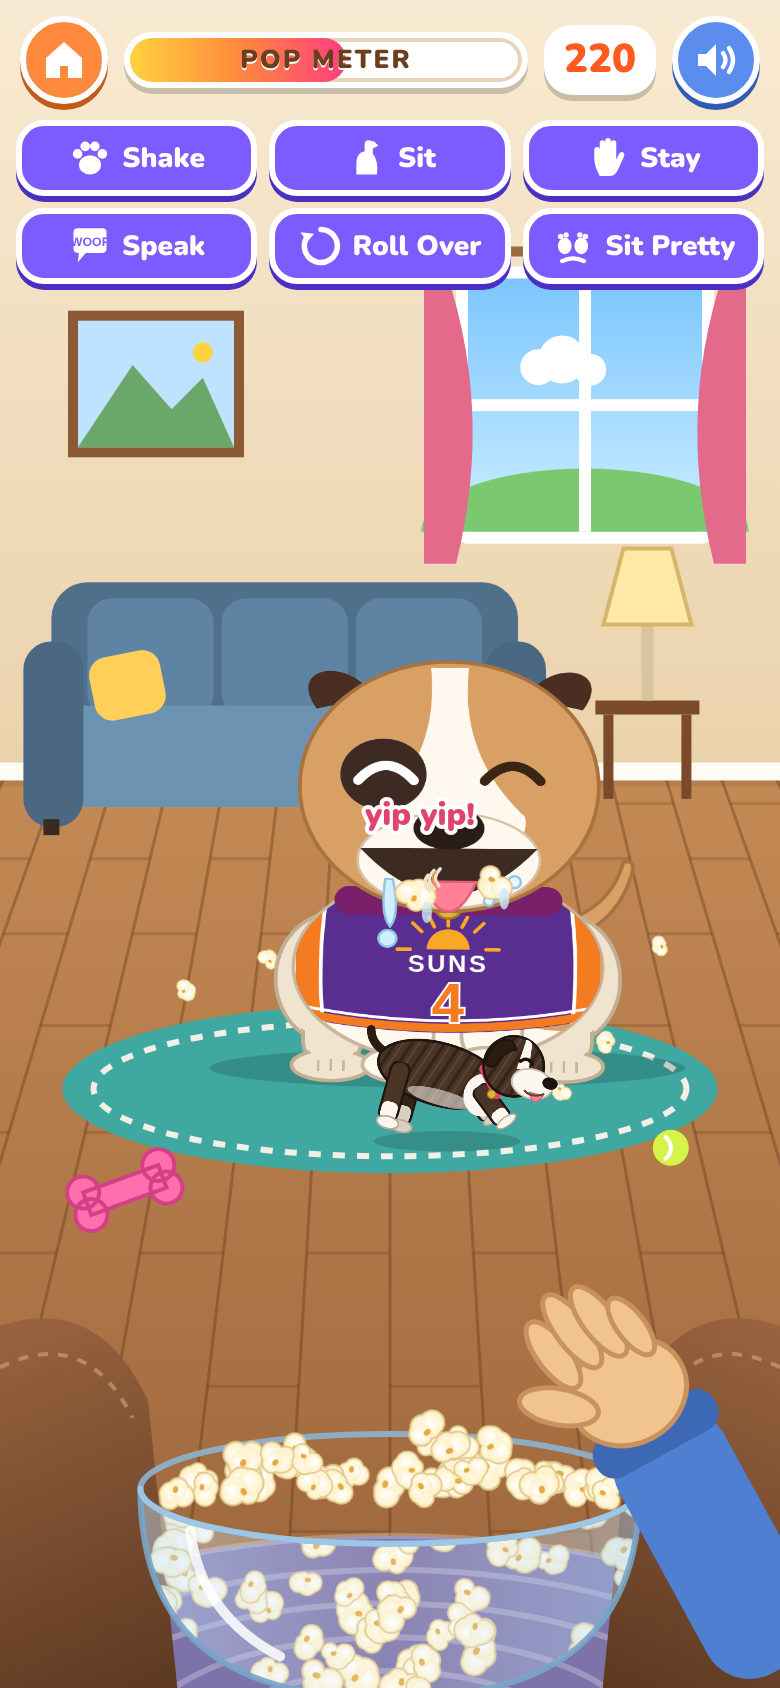
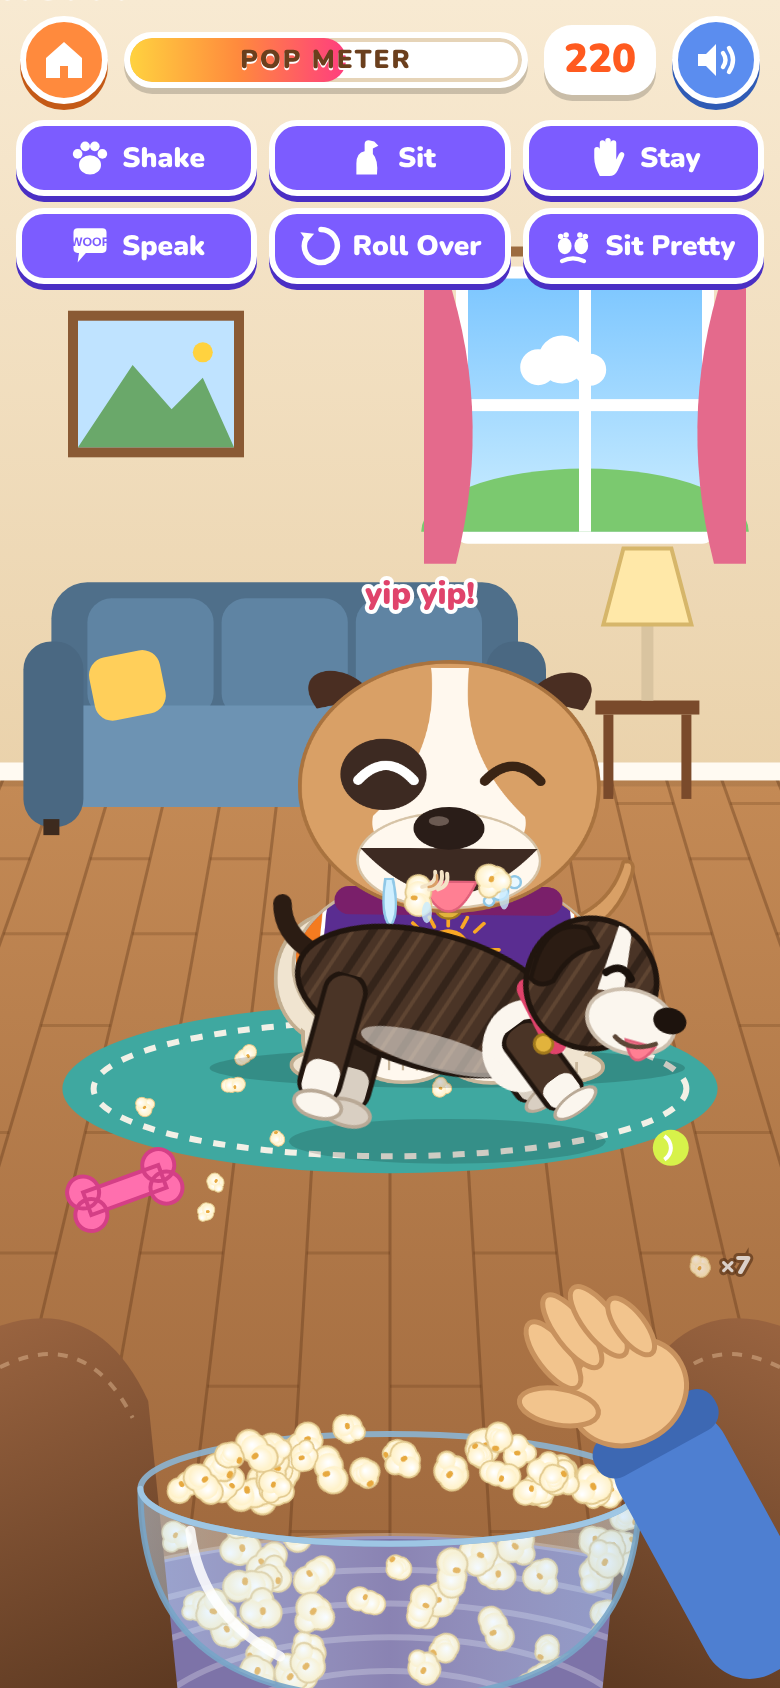
Gorda's cleanup crew: she gobbles missed popcorn when 10 pile up (both games); full-size Gorda on the floor; Marley is she/her

diff --git a/games/pop-the-dog/game.js b/games/pop-the-dog/game.js
@@ -45,7 +45,12 @@
   // ---------------- layout + static art ----------------
   function resize() {
     const r = $('app').getBoundingClientRect();
+    const oW = W, oH = H;
     W = Math.round(r.width); H = Math.round(r.height);
+    if (oW && oH && (oW !== W || oH !== H)) {      // keep floor popcorn + Gorda in place after a resize/rotate
+      S.floor.forEach(c => { c.x *= W / oW; c.y *= H / oH; });
+      Z.x *= W / oW; Z.y *= H / oH;
+    }
     DPR = Math.min(2, window.devicePixelRatio || 1);
     canvas.width = Math.round(W * DPR); canvas.height = Math.round(H * DPR);
     L.wallY = H * 0.46;
@@ -58,7 +63,7 @@
     L.gorda = { x: W * 0.215, y: L.wallY - H * 0.035 + 4, k: Math.min(W * 0.27, 150) / 270 };
     if (!S.x) S.x = W / 2;
     bg = renderBackground(); fg = renderForeground();
-    if (Z.on) updateZoomies(0);   // keep Gorda on the new floor loop after a resize/rotate
+    if (Z.on && Z.kind === 'zoom') updateZoomies(0);   // keep Gorda on the new floor loop after a resize/rotate
   }
 
   function offscreen(w, h) {
@@ -521,30 +526,42 @@
   // ---------------- Gorda's ZOOMIES (Marley game only) ----------------
   // ~8 s: wake -> stretch -> hop down -> laps around Marley (behind on the far side, in front on
   // the near side) with a play bow -> run back -> jump up -> turn around -> lie down.
-  const Z = { on: false, t: 0, next: 35, mode: 'couch', x: 0, y: 0, k: 0.3, face: 1, layer: 'back', phi: 0,
+  const Z = { on: false, kind: 'zoom', t: 0, next: 35, mode: 'couch', x: 0, y: 0, k: 0.3, face: 1, layer: 'back', phi: 0,
     lastStep: 0, fired: {}, watchRot: 0, st: null };
   function startZoomies() {
     if (Z.on || S.dogId !== 'marley' || !G.runImgs || S.popState) return;
-    Object.assign(Z, { on: true, t: 0, fired: {}, mode: 'couch', phi: 0 });
+    Object.assign(Z, { on: true, kind: 'zoom', t: 0, fired: {}, mode: 'couch', phi: 0 });
     G.state = 'zoom'; G.until = 1e9; G.earT = 0.35;
   }
   function stopZoomies() {
-    Z.on = false; Z.next = S.time + rand(30, 45);
+    // after a cleanup, zoomies that were already due just wait a few seconds
+    Z.next = Z.kind === 'clean' ? Math.max(Z.next, S.time + 6) : S.time + rand(30, 45);
+    Z.on = false; Z.target = null;
     if (G.state === 'zoom') { G.state = 'sleep'; G.until = S.time; }
   }
   function zLoop() {
-    const rx = L.dogW * 0.5 * (1 + 0.7 * progress()) * 1.12 + 34, ry = H * 0.034;
+    const rx = Math.min(L.dogW * 0.5 * (1 + 0.7 * progress()) * 1.12 + 34, W * 0.5 - 78), ry = H * 0.034;
     return th => ({ x: S.x + rx * Math.cos(th), y: L.feetY + 4 + ry * Math.sin(th), d: Math.sin(th) });
   }
+  // Gorda on the floor is full size: about 88% of the dog's starting size (Marley and Bella grow as
+  // they fill up), with only mild +/-10% depth scaling on the far / near side.
+  function floorK() { return (L.dogW / 400) * 0.88 * 350 / 156; }
+  function depthScale(d) { return floorK() * (1 + 0.1 * clamp(d, -1, 1)); }
+  function yDepth(y) { return (y - (L.feetY + 4)) / (H * 0.034); }
+  const smooth = u => { u = clamp(u, 0, 1); return u * u * (3 - 2 * u); };
+
   function updateZoomies(dt) {
     if (!Z.on) {
+      // cleanup duty comes first (both games); zoomies wait their turn
+      if (S.mode === 'play' && !S.popState && G.runImgs && S.floor.length >= CLEAN_AT) { startCleanup(); return; }
       if (S.dogId === 'marley' && S.mode === 'play' && !S.popState && S.time > Z.next && G.runImgs) startZoomies();
       return;
     }
+    if (Z.kind === 'clean') { updateCleanup(dt); return; }
     Z.t += dt;
     const t = Z.t, seat = { x: L.gorda.x, y: L.gorda.y - 2 }, P = zLoop();
     const base = { x: L.gorda.x + W * 0.02, y: L.wallY + H * 0.045 };
-    const kCouch = 0.3, depthK = d => 0.37 + 0.06 * d;
+    const kCouch = 0.3, depthK = depthScale;
     const once = (key, at, fn) => { if (t >= at && !Z.fired[key]) { Z.fired[key] = true; fn(); } };
     const st = { legs: [0, 0, 0, 0], frontLen: 1, bodyDY: 0, bodyRot: 0, headRot: 0, tail: -0.2 + Math.sin(S.time * 18) * 0.4, face: 'open' };
     const prevX = Z.x;
@@ -561,7 +578,7 @@
     } else if (t < 1.7) {                       // hop down
       const u = (t - 1.2) / 0.5, a = seat, b = P(Math.PI);
       Z.mode = 'stand'; Z.layer = 'back';
-      Z.x = lerp(a.x, b.x, u); Z.y = lerp(a.y, b.y, u) - 70 * Math.sin(Math.PI * u); Z.k = lerp(kCouch, depthK(0), u);
+      Z.x = lerp(a.x, b.x, u); Z.y = lerp(a.y, b.y, u) - 70 * Math.sin(Math.PI * u); Z.k = lerp(kCouch, depthK(0), smooth(u));
       st.legs = [0.7, 0.6, -0.7, -0.6]; st.face = 'happy';
     } else if (t < 3.5) {                       // lap 1: behind Marley, around the right, to the front
       const p = P(Math.PI + 1.5 * Math.PI * (t - 1.7) / 1.8);
@@ -576,11 +593,11 @@
       runTo(p.x, p.y, depthK(p.d)); Z.layer = p.d > 0.05 ? 'front' : 'back';
     } else if (t < 6.4) {                       // run back to the couch
       const u = (t - 6.0) / 0.4, a = P(Math.PI);
-      runTo(lerp(a.x, base.x, u), lerp(a.y, base.y, u), lerp(depthK(0), kCouch + 0.02, u)); Z.layer = 'back';
+      runTo(lerp(a.x, base.x, u), lerp(a.y, base.y, u), lerp(depthK(0), depthK(-1), u)); Z.layer = 'back';
     } else if (t < 6.85) {                      // jump up onto the couch
       const u = (t - 6.4) / 0.45;
       Z.mode = 'stand'; Z.layer = 'back';
-      Z.x = lerp(base.x, seat.x, u); Z.y = lerp(base.y, seat.y, u) - 55 * Math.sin(Math.PI * u); Z.k = lerp(kCouch + 0.02, kCouch, u);
+      Z.x = lerp(base.x, seat.x, u); Z.y = lerp(base.y, seat.y, u) - 55 * Math.sin(Math.PI * u); Z.k = lerp(depthK(-1), kCouch, smooth(u));
       Z.face = seat.x >= base.x ? 1 : -1;
       st.legs = [0.7, 0.6, -0.8, -0.7]; st.face = 'happy';
     } else if (t < 7.5) {                       // turn around once on the cushion
@@ -613,6 +630,130 @@
     });
     once('yip2', 6.4, () => sfx.bark(1.8, 0, 1));
   }
+  // ---------------- Gorda's CLEANUP CREW (both games) ----------------
+  // When 10 missed popcorn pieces pile up on the floor, Gorda hops down and gobbles them up
+  // (nearest piece next), then goes back to her nap. No points lost or gained. Capped at ~10 s.
+  const CLEAN_AT = 10, EAT_END = 7.6, NOSE = 95;     // NOSE: art units from her feet anchor to her nose when sniffing
+  function startCleanup() {
+    if (Z.on || !G.runImgs || S.popState) return;
+    Object.assign(Z, { on: true, kind: 'clean', t: 0, pt: 0, ph: 'wake', fired: {}, mode: 'couch', phi: 0, target: null,
+      eaten: 0, layer: 'back', face: 1, x: L.gorda.x, y: L.gorda.y, k: 0.3, watchRot: 0 });
+    G.state = 'zoom'; G.until = 1e9; G.earT = 0.35;
+    addText('Cleanup crew!', L.gorda.x + 20, L.gorda.y - 78, '#e0436b', 20, 1.6, -22);
+    sfx.bark(1.8, 0, 2);
+  }
+  function nearestPiece() {
+    // popcorn that rolled off-screen is just tidied away
+    for (let i = S.floor.length - 1; i >= 0; i--) { const c = S.floor[i]; if (c.x < 6 || c.x > W - 6) S.floor.splice(i, 1); }
+    const nx = Z.x + Z.face * NOSE * Z.k, ny = Z.y;
+    let best = null, bd = 1e18;
+    S.floor.forEach(c => { const d = (c.x - nx) ** 2 + (2 * (c.y - ny)) ** 2; if (d < bd) { bd = d; best = c; } });
+    return best;
+  }
+  function crumbs(x, y, n) {
+    for (let i = 0; i < n; i++) S.parts.push({ type: 'crumb', x: x + rand(-6, 6), y: y - 4, vx: rand(-90, 90), vy: rand(-230, -90),
+      life: rand(0.35, 0.6), max: 0.6, r: 0, size: rand(2.5, 4.5) });
+  }
+  function gobble(c) {
+    const i = S.floor.indexOf(c); if (i >= 0) S.floor.splice(i, 1);
+    crumbs(c.x, c.y, 7); sfx.chomp(); Z.eaten++;
+    if (Z.eaten % 3 === 1) addText(pick(['nom!', 'chomp!', 'yum!']), c.x, c.y - 30, '#7a4b2a', 15, 0.7);
+  }
+  function updateCleanup(dt) {
+    Z.t += dt; Z.pt += dt;
+    const seat = { x: L.gorda.x, y: L.gorda.y - 2 }, base = { x: L.gorda.x + W * 0.04, y: L.wallY + H * 0.06 }, kCouch = 0.3;
+    const kAt = y => depthScale(yDepth(y));
+    const st = { legs: [0, 0, 0, 0], frontLen: 1, bodyDY: 0, bodyRot: 0, headRot: 0, tail: -0.2 + Math.sin(S.time * 18) * 0.4, face: 'happy' };
+    const go = ph => { Z.ph = ph; Z.pt = 0; };
+    const prevX = Z.x;
+    let running = false;
+    // run toward (x, y) at Z.speed; returns true on arrival
+    const runTo = (x, y) => {
+      const dx = x - Z.x, dy = y - Z.y, d = Math.hypot(dx, dy), step = Z.speed * dt;
+      running = true; Z.mode = 'stand';
+      if (d <= step || d < 0.5) { Z.x = x; Z.y = y; } else { Z.x += dx / d * step; Z.y += dy / d * step; }
+      Z.k = kAt(Z.y); Z.layer = Z.y > L.feetY + 2 ? 'front' : 'back';
+      return d <= step || d < 0.5;
+    };
+
+    if (Z.ph === 'wake') {                       // wakes up on the couch, ears up
+      Z.mode = 'couch';
+      if (Z.pt >= 0.5) go('hop');
+    }
+    if (Z.ph === 'hop') {                        // hops down, growing from couch size to full floor size
+      const u = clamp(Z.pt / 0.5, 0, 1);
+      Z.mode = 'stand'; Z.layer = 'back'; Z.face = base.x >= seat.x ? 1 : -1;
+      Z.x = lerp(seat.x, base.x, u); Z.y = lerp(seat.y, base.y, u) - 60 * Math.sin(Math.PI * u); Z.k = lerp(kCouch, kAt(base.y), smooth(u));
+      st.legs = [0.7, 0.6, -0.7, -0.6];
+      if (u >= 1) { sfx.patter(); go('seek'); }
+    }
+    if (Z.ph === 'seek') {                       // run to the nearest piece
+      if (!Z.target || S.floor.indexOf(Z.target) < 0) {
+        Z.target = nearestPiece();
+        if (!Z.target) { go('home'); addText('Gorda: nom nom!', Z.x, Z.y - 150 * Z.k, '#e0436b', 18, 1.4, -25); sfx.bark(1.8, 0, 1); }
+        else if (Z.t > EAT_END) go('slurp');
+        else {
+          const c = Z.target, f = c.x >= Z.x ? 1 : -1, sx = c.x - f * NOSE * kAt(c.y);
+          const per = Math.max(0.25, EAT_END - Z.t) / S.floor.length;     // time budget per piece (~10 s total cap)
+          Z.eatDur = clamp(per * 0.45, 0.16, 0.5);
+          Z.speed = Math.max(W * 0.9, Math.hypot(sx - Z.x, c.y - Z.y) / Math.max(0.1, per - Z.eatDur));
+          Z.tf = f;
+        }
+      }
+      if (Z.ph === 'seek') {
+        const c = Z.target;
+        if (runTo(c.x - Z.tf * NOSE * kAt(c.y), c.y - 1)) { Z.face = Z.tf; go('eat'); sfx.sniff(); }
+      }
+    }
+    if (Z.ph === 'eat') {                        // snuffle, then chomp
+      const u = Z.pt / Z.eatDur, b = u < 0.75 ? smooth(u / 0.3) : 1 - smooth((u - 0.75) / 0.25);
+      Z.mode = 'stand';
+      st.bodyRot = 0.3 * b; st.legs[2] = st.legs[3] = -1.0 * b; st.frontLen = 1 - 0.3 * b; st.headRot = 0.8 * b;
+      st.bodyDY = Math.sin(Z.pt * 40) * 1.5 * b; st.face = u < 0.55 ? 'open' : 'happy';
+      if (u >= 0.55 && Z.target && S.floor.indexOf(Z.target) >= 0) gobble(Z.target);
+      if (u >= 1) { Z.target = null; go('seek'); }
+    }
+    if (Z.ph === 'slurp') {                      // time's up: vacuum up whatever is left
+      const n = S.floor.length;
+      S.floor.splice(0).forEach(c => crumbs(c.x, c.y, 3));
+      if (n) { sfx.chomp(); setTimeout(() => sfx.chomp(), 90); addText('SLURP!', Z.x, Z.y - 150 * Z.k, '#e0436b', 20, 1, -25); }
+      go('home');
+    }
+    if (Z.ph === 'home') {                       // back to the couch
+      if (Z.pt === dt || !Z.homeSpeed) Z.homeSpeed = Math.max(W * 1.1, Math.hypot(base.x - Z.x, base.y - Z.y) / 0.6);
+      Z.speed = Z.homeSpeed;
+      if (runTo(base.x, base.y)) { Z.homeSpeed = 0; go('jump'); sfx.bark(1.8, 0, 1); }
+    }
+    if (Z.ph === 'jump') {                       // jump up, shrinking back to couch size
+      const u = clamp(Z.pt / 0.45, 0, 1);
+      Z.mode = 'stand'; Z.layer = 'back'; Z.face = seat.x >= base.x ? 1 : -1;
+      Z.x = lerp(base.x, seat.x, u); Z.y = lerp(base.y, seat.y, u) - 55 * Math.sin(Math.PI * u); Z.k = lerp(kAt(base.y), kCouch, smooth(u));
+      st.legs = [0.7, 0.6, -0.8, -0.7];
+      if (u >= 1) go('turn');
+    }
+    if (Z.ph === 'turn') {                       // circle once on the cushion
+      Z.mode = 'stand'; Z.x = seat.x; Z.y = seat.y - Math.abs(Math.sin(Z.pt * 10)) * 4; Z.k = kCouch;
+      Z.face = (Z.pt < 0.15 || (Z.pt >= 0.35 && Z.pt < 0.5)) ? -1 : 1;
+      if (Math.floor(Z.pt * 10) !== Math.floor((Z.pt - dt) * 10)) sfx.patter();
+      if (Z.pt >= 0.6) go('lie');
+    }
+    if (Z.ph === 'lie') {                        // and back to her nap
+      if (Z.mode !== 'couch') { Z.mode = 'couch'; G.state = 'sleep'; G.until = S.time; G.headDY = 0; G.nextSnore = S.time + rand(5, 9); }
+      if (Z.pt >= 0.5) { stopZoomies(); return; }
+    }
+    if (running) {
+      if (Math.abs(Z.x - prevX) > 0.3) Z.face = Z.x > prevX ? 1 : -1;
+      Z.phi += dt * 17;
+      const a = 0.75;
+      st.legs = [Math.sin(Z.phi + 0.7) * a, Math.sin(Z.phi) * a, Math.sin(Z.phi + Math.PI + 0.7) * a, Math.sin(Z.phi + Math.PI) * a];
+      st.bodyDY = -Math.abs(Math.sin(Z.phi)) * 9; st.bodyRot = Math.sin(Z.phi) * 0.06; st.face = 'happy';
+      if (S.time - Z.lastStep > 0.1) { sfx.patter(); Z.lastStep = S.time; }
+    }
+    Z.st = st;
+    // the dog keeps an eye on her helper
+    Z.watchRot = (Z.mode === 'stand' && (Z.ph === 'seek' || Z.ph === 'eat' || Z.ph === 'home')) ? clamp((Z.x - S.x) / (W * 0.45), -1, 1) * 0.32 : 0;
+  }
+
   function gordaBox() {     // where standing Gorda is on screen (for popcorn bouncing off her)
     if (!Z.on || Z.mode !== 'stand') return null;
     const w = 125 * Z.k, h = 150 * Z.k;
@@ -879,6 +1020,16 @@
       ctx.beginPath(); ctx.ellipse(pd.x, pd.y, 10, 4, 0, 0, 7); ctx.fill(); ctx.globalAlpha = 1;
     });
     S.floor.forEach(c => drawCorn(ctx, c.x, c.y, c.size * 0.7, c.r, c.v));
+    if (S.mode === 'play' && S.floor.length > 0) {      // tiny "popcorn on the floor" counter (Gorda cleans up at 10)
+      const cx = W - 40, cy = L.feetY + H * 0.115;
+      ctx.save(); ctx.globalAlpha = 0.75;
+      drawCorn(ctx, cx, cy, 18, 0.3, 1);
+      ctx.font = '900 13px ' + FONT; ctx.textAlign = 'left'; ctx.textBaseline = 'middle';
+      ctx.lineWidth = 3; ctx.strokeStyle = 'rgba(80,45,20,.8)'; ctx.fillStyle = '#fff';
+      const label = '\u00d7' + Math.min(S.floor.length, 99);
+      ctx.strokeText(label, cx + 10, cy + 1); ctx.fillText(label, cx + 10, cy + 1);
+      ctx.restore();
+    }
 
     // dog
     const imgs = S.imgs[S.dogId];
@@ -998,6 +1149,7 @@
     else if (q.type === 'corn') { ctx.restore(); ctx.save(); ctx.globalAlpha = a; drawCorn(ctx, q.x, q.y, q.size, q.r, q.v); }
     else if (q.type === 'puff') { ctx.globalAlpha = a * 0.75; ctx.fillStyle = '#ffffff'; ctx.beginPath(); ctx.arc(0, 0, q.size * (1.4 - q.life / q.max * 0.6), 0, 7); ctx.fill(); }
     else if (q.type === 'heart') { ctx.fillStyle = '#ff3d7f'; ctx.beginPath(); ctx.moveTo(0, 6); ctx.bezierCurveTo(-14, -4, -6, -14, 0, -6); ctx.bezierCurveTo(6, -14, 14, -4, 0, 6); ctx.fill(); }
+    else if (q.type === 'crumb') { ctx.fillStyle = '#fff3d6'; ctx.strokeStyle = '#d9b46a'; ctx.lineWidth = 1; ctx.beginPath(); ctx.arc(0, 0, q.size, 0, 7); ctx.fill(); ctx.stroke(); }
     else if (q.type === 'drop') { ctx.fillStyle = '#cfefff'; ctx.beginPath(); ctx.arc(0, 0, 4, 0, 7); ctx.fill(); }
     ctx.restore();
   }
@@ -1017,7 +1169,7 @@
     last = ts;
     if (!(freezeArmed && FREEZE !== null && S.time >= FREEZE)) update(dt);
     draw();
-    if (window.__S) document.title = 't=' + S.time.toFixed(2) + ' pop=' + S.popState + ' z=' + Z.on + ' ' + Z.t.toFixed(2) + ' ' + Z.mode + ' ' + Z.layer + ' g=' + G.state + ' Z=' + Z.x.toFixed(0) + ',' + Z.y.toFixed(0) + ' k=' + Z.k.toFixed(2) + ' feet=' + L.feetY.toFixed(0) + ' H=' + H;
+    if (window.__S) document.title = 't=' + S.time.toFixed(2) + ' pop=' + S.popState + ' z=' + Z.on + ' ' + Z.t.toFixed(2) + ' ' + Z.mode + ' ' + Z.layer + ' g=' + G.state + ' ' + Z.kind + '/' + (Z.ph || '') + ' fl=' + S.floor.length + ' Z=' + Z.x.toFixed(0) + ',' + Z.y.toFixed(0) + ' k=' + Z.k.toFixed(2) + ' feet=' + L.feetY.toFixed(0) + ' H=' + H;
     requestAnimationFrame(frame);
   }
 
@@ -1093,6 +1245,15 @@
     }
     if (DEBUG === 'pop') { S.score = GOAL; updateHud(); startPop(); }
     if (Q.has('zoomies')) { Z.next = 1e9; startZoomies(); Z.t = parseFloat(Q.get('zoomies')) || 0; S.flying = []; S.texts = []; }
+    if (Q.has('cleanup')) {
+      let seed = 7; const rnd = (a, b) => { seed = (seed * 16807) % 2147483647; return a + (b - a) * (seed / 2147483647); };
+      S.floor = []; S.flying = []; S.texts = []; Z.next = 1e9; S.lastThrow = 1e9;
+      const n = parseInt(Q.get('cleanup'), 10) || CLEAN_AT;
+      for (let i = 0; i < n; i++) S.floor.push({ x: rnd(W * 0.08, W * 0.92), y: L.feetY + rnd(-H * 0.02, H * 0.09), r: rnd(0, 6), v: i, size: 22 });
+      if (n >= CLEAN_AT && Q.has('ct')) { startCleanup(); const ct = parseFloat(Q.get('ct')) || 0; while (Z.on && Z.t < ct) update(1 / 60); }
+      else if (n >= CLEAN_AT) startCleanup();
+      if (FREEZE !== null) S.time = Math.min(S.time, FREEZE);     // freeze right here
+    }
     if (Q.get('gorda') === 'watch') { gordaWake('watch', 99); S.flying.push({ x0: L.launch.x, y0: L.launch.y, tx: W * 0.3, ty: L.feetY - L.dogW, t: 0.3, spin: 2, v: 1, x: 0, y: 0, size: 30 }); }
     // fast-forward to the freeze moment (headless browsers barely run animation frames)
     if (FREEZE !== null) while (S.time < FREEZE) { update(1 / 60); draw(); }

diff --git a/js/sfx.js b/js/sfx.js
@@ -227,6 +227,17 @@
       noise(t, 0.035, 0.07, 'bandpass', 1800 + Math.random() * 1400, 0, 2);
       tone('sine', 180 + Math.random() * 60, 120, t, 0.04, 0.04);
     },
+    // Gorda snuffling for popcorn on the floor: 2-3 quick nose sniffs
+    sniff() {
+      if (!ready()) return; const t = ctx.currentTime;
+      for (let i = 0; i < 3; i++) noise(t + i * 0.07, 0.05, 0.16, 'bandpass', 2600 + i * 300, 1600, 3);
+    },
+    // Gorda gobbling a popcorn piece: small chomp + crispy crunch
+    chomp() {
+      if (!ready()) return; const t = ctx.currentTime;
+      tone('square', 240, 110, t, 0.06, 0.09);
+      for (let i = 0; i < 3; i++) noise(t + 0.03 + i * 0.045, 0.035, 0.32, 'highpass', 2200 + Math.random() * 1500, 0, 0.7);
+    },
     // popcorn bouncing off Gorda
     boop() {
       if (!ready()) return; const t = ctx.currentTime;

diff --git a/sw.js b/sw.js
@@ -1,6 +1,6 @@
 /* Lucas's Arcade - service worker: keeps every file on the phone so the arcade works offline.
    When you change or add files: add them to FILES and bump VERSION. */
-const VERSION = 'lucas-arcade-v5';
+const VERSION = 'lucas-arcade-v6';
 const FILES = [
   './',
   './index.html',

diff --git a/README.md b/README.md
@@ -29,7 +29,8 @@ security. Trophies won before logins existed went to the first player created.
 - **Tricks:** Shake, Sit, Stay, Speak, Roll Over, Sit Pretty. When she finishes, toss her a treat for a **GOOD DOG** bonus. Sometimes she asks for a trick herself, and doing the one she asked for gives extra points.
 - Stop tossing popcorn and she starts whimpering and begging. She barks too (Bella yips higher, Marley barks lower and gruffer).
 - Fill the **POP METER**, she pops into popcorn and confetti (and comes right back, totally fine), and a prize card flips over. Prizes go on the **Trophy Shelf** on the home screen.
-- **Gorda**, Marley's sister (brindle bulldog, pink collar), naps on the couch in the background: she snores, twitches her ears, lifts her head to watch the popcorn, and perks up when the dog pops. In Marley's game she sometimes gets the zoomies (every ~30-45 s, and once just after Marley comes back from a POP): she stretches, hops down, runs 2 laps around Marley (behind him on the far side, in front on the near side), does a play bow while Marley turns to watch and barks, then jumps back on the couch and naps. Popcorn that hits her just bounces off (no points lost). Debug: `?debug=mid&dog=marley&freeze=0.02&zoomies=<seconds>`. Not playable yet!
+- **Gorda**, Marley's sister (brindle bulldog, pink collar), naps on the couch in the background: she snores, twitches her ears, lifts her head to watch the popcorn, and perks up when the dog pops. In Marley's game she sometimes gets the zoomies (every ~30-45 s, and once just after Marley comes back from a POP): she stretches, hops down, runs 2 laps around Marley (behind her on the far side, in front on the near side), does a play bow while Marley turns her head to watch and barks, then jumps back on the couch and naps. Popcorn that hits her just bounces off (no points lost). Debug: `?debug=mid&dog=marley&freeze=0.02&zoomies=<seconds>`. On the floor Gorda is full size (about 88% of Marley's size, with only mild +/-10% depth scaling).
+  - **Cleanup crew** (both games): missed popcorn stays on the floor (a tiny popcorn counter shows how many). When 10 pieces pile up, Gorda wakes ("Cleanup crew!"), hops down and runs to the nearest piece each time, sniffing and chomping each one with a little crunch, then says "Gorda: nom nom!" and goes back to nap on the couch. It takes about 10 s at most (if there are lots of pieces she slurps up the rest). No points lost or gained, the floor counter resets, and in Marley's game zoomies wait until the cleanup is done. Debug: `?debug=mid&dog=marley&freeze=0.02&cleanup=<N fake misses>&ct=<seconds into the cleanup>`. Not playable yet!
 - All sounds are made in code (Web Audio). The speaker button mutes them.
 
 ## How it's built
